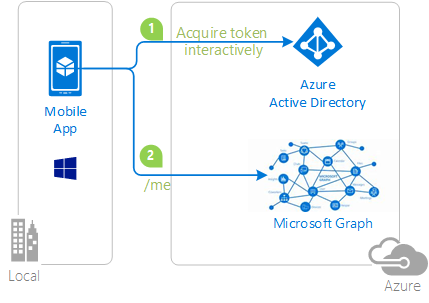
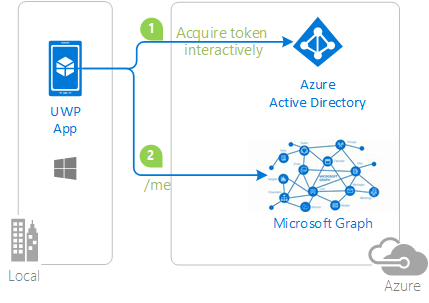
Improving the Readme - adding a build badge - improving the toplogy map

Changed region(s): [[0.1212, 0.505, 0.1818, 0.5941], [0.0909, 0.3564, 0.2121, 0.3861]]

diff --git a/README.md b/README.md
@@ -7,7 +7,7 @@ client: UWP
 service: Microsoft Graph
 endpoint: AAD V2
 ---
-
+![Build badge](https://identitydivision.visualstudio.com/_apis/public/build/definitions/a7934fdd-dcde-4492-a406-7fad6ac00e17/484/badge)
 
 # Universal Windows Platform application signing in users with Microsoft and calling the Microsoft Graph
 
